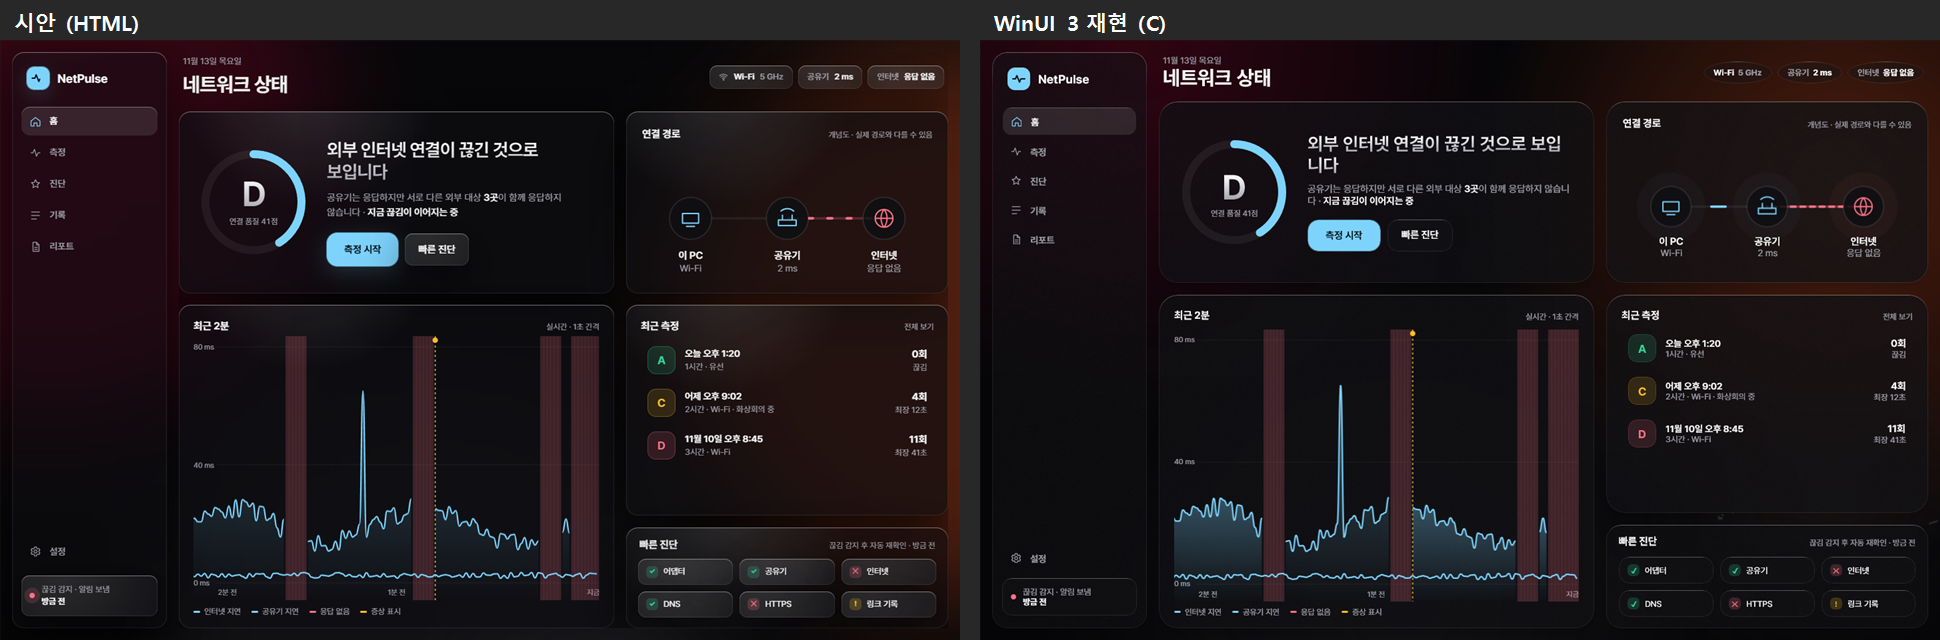
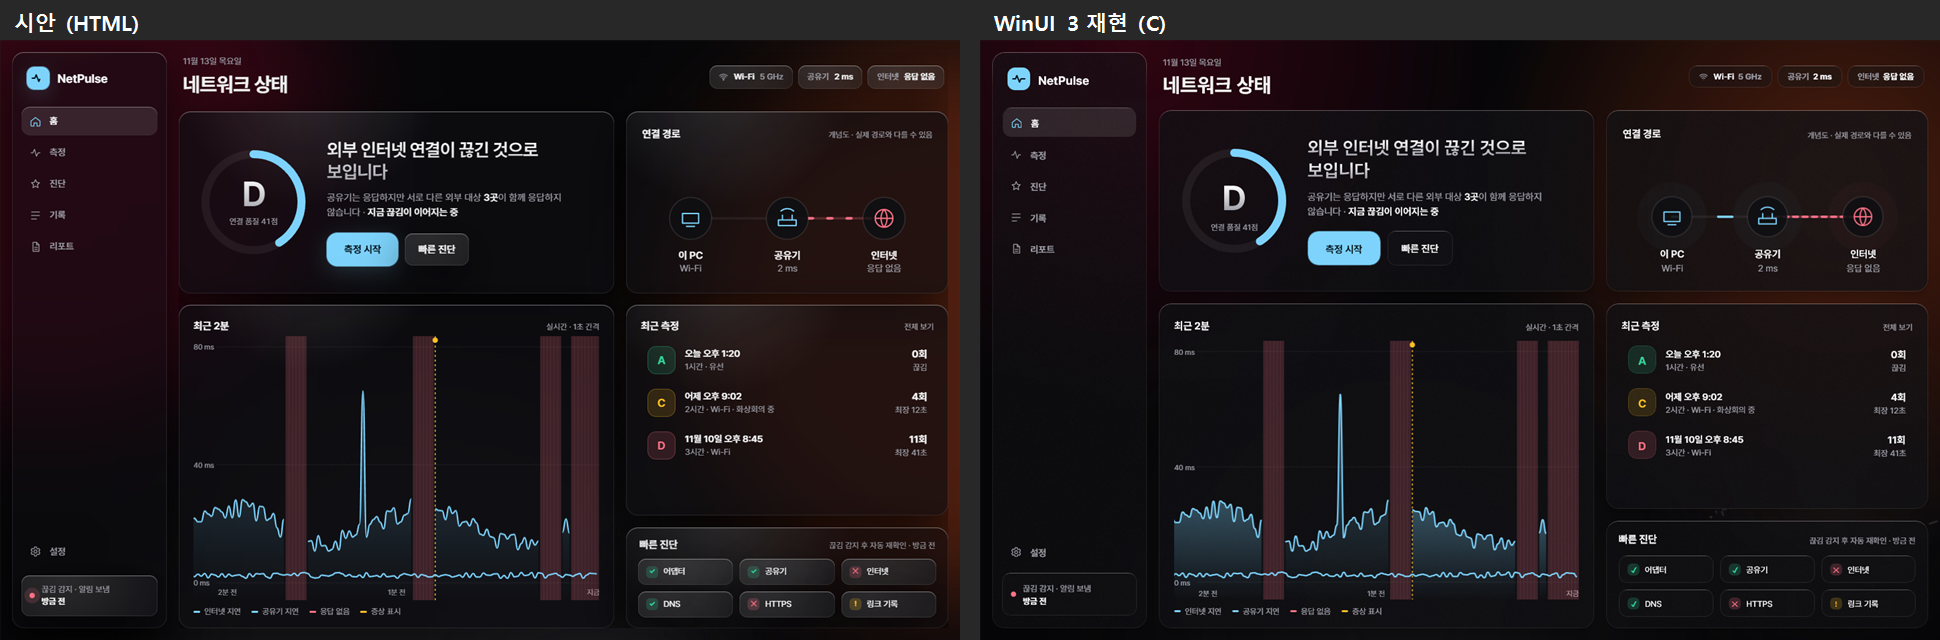
Rewrite the home reproduction report with measured results
The report now separates matched, approximated, and missing elements, records the bench run from 80a6941 with the measuring loop, the automation isolation check during the reveal, and the open items.

diff --git a/docs/loop/m0/home-repro.md b/docs/loop/m0/home-repro.md
@@ -2,35 +2,80 @@
 
 - 목적: 사용자가 C(WinUI 3)를 조건부로 고르면서, 고른 흑요석 시안을 C로 같은 품질로 낼 수 있는지 확인한다 (`DECISIONS.md` "D1 조건부 선호").
 - 소스: `spikes/c-winui/HomeWindow.cs` (`NetPulseSpikeC.exe --home`). 시안: `spikes/design/home-mockups.html`.
-- 캡처: `spikes/tools/capture-home.ps1`. C는 창의 클라이언트 영역 1440×900, 시안은 같은 크기의 Edge 헤드리스.
-- 비교 이미지: `home-repro/compare-*.png` (왼쪽 시안, 오른쪽 C), `home-repro/compare-transition.png` (테마 전환 네 시점)
+- 측정·캡처한 소스: 커밋 `80a6941`, 깨끗한 작업트리. 원본 `.loop/logs/m0-home/` (커밋 제외).
+- 비교 이미지: `home-repro/compare-*.png` (왼쪽 시안, 오른쪽 C, 둘 다 1440×900), `home-repro/compare-transition.png` (테마 전환 네 시점)
 
-## 재현한 것
+## 판정 요약
 
-| 요소 | 방법 | 결과 |
+| 항목 | 상태 |
+| --- | --- |
+| 정적 외관 (색·글꼴·배치·반경·줄바꿈) | 시안과 일치하도록 맞춤. 비교 이미지에서 카드 위치 차이 1~2 px |
+| 모션 (배경 빛, 오로라, 링, 경로 흐름, 타임라인, 등장, 원형 확산) | 구현함 |
+| 성능·자원 (측정 루프와 함께) | 측정함. 아래 표 |
+| 전환 중 입력·자동화 격리 | 확인함. 아래 표 |
+| 대비 계산, 재질의 수치 동등성, 키보드·화면 읽기, 다른 배율 | **확인하지 않음** |
+
+## 요소별
+
+상태 표기: **일치**(색 토큰과 정적 외관이 비교 이미지에서 같음), **근사**(같은 효과를 다른 수단으로 냄, 차이 있음), **미구현**.
+
+| 요소 | 방법 | 상태 |
 | --- | --- | --- |
-| 흑요석 색·글꼴 | 시안의 토큰 값을 그대로 옮김. Pretendard를 실행 파일 옆 `Fonts`에서 읽음 | 같음 |
-| 유리 3단계 | `AcrylicBrush` 틴트 70·52·36%, 위가 밝은 테두리 그라디언트로 1px 하이라이트 흉내 | 같음. 라이트에서는 `ThemeShadow` 그림자로 깊이가 시안보다 더 남 |
-| 배경 빛과 흐름 | 가장자리가 투명한 원형 그라디언트 + Storyboard 이동 | 같음 |
-| 연한 오로라 (켜고 끄기) | 길쭉한 빛 띠 셋, 투명도 0.6초 전환 | 동작함. **C 쪽이 시안보다 조금 옅다** → M2에서 세기 토큰으로 맞춤 |
-| 등급 링 | 원의 점선 간격을 줄이는 애니메이션 | 같음 |
-| 경로 맵의 흐르는 빛, 노드 파동 | 점선 오프셋 애니메이션, 크기·투명도 반복 | 같음 |
-| 타임라인 (매초 흘러감, 응답 없음 띠, 증상 표시) | 프레임마다 이동, 매초 다시 그림 | 같음 |
-| 끊김 상태 | 배경 빛 색, 경로 붉은 깜빡임, 등급 D, 진단 칩 | 같음 |
-| 카드 차례로 등장, 점수 올라가기 | Storyboard, 16 ms 타이머 | 동작함 |
-| 테마 원형 확산 | 이전 장면을 둔 채 새 장면을 위에 올리고 Composition 원형 클립을 키움 | 동작함. 누른 뒤 37 ms에 시작, 전체 646 ms. 전환 중에도 그래프가 움직임 |
-| 효과 줄이기 | 불투명 표면, 배경 빛·오로라 끔 | 동작함 (`.loop`의 `c-dark-reduced.png`) |
+| 흑요석 색·글꼴 | 시안의 토큰 값을 그대로 옮김. Pretendard를 실행 파일 옆 `Fonts`에서 읽음 | 일치 |
+| 형태·간격 | 유리 반경 18, 떠 있는 유리 12, 줄 높이 1.5 (제목 1.25) | 일치 |
+| 한국어 줄바꿈 | 글자 사이에 단어 결합자(U+2060)를 넣어 단어 단위로만 줄바꿈 | 일치 ("것으로 / 보입니다") |
+| 유리 3단계 | `AcrylicBrush` 틴트 70·52·36%, 위가 밝은 테두리로 1px 하이라이트 흉내 | **근사**. 시안의 블러 강도 22·18·12 px는 옮길 수 없다(속성 없음). 라이트에서는 `ThemeShadow` 그림자가 시안보다 진함 |
+| 배경 빛과 흐름 | 가장자리가 투명한 원형 그라디언트 + Storyboard 이동 | 근사 (CSS blur 대신 그라디언트) |
+| 연한 오로라 (켜고 끄기) | 길쭉한 빛 띠 셋, 투명도 0.6초 전환. 장면을 다시 만들지 않음 | **근사**. 시안보다 옅고 위치·퍼짐이 다름 → M2에서 토큰으로 맞춤 |
+| 등급 링 | 원의 점선 간격 애니메이션. 처음 한 번만 채우고, 테마·상태를 바꿔도 현재 값을 유지 | 일치 |
+| 경로 맵의 흐르는 빛, 노드 파동 | 점선 오프셋 애니메이션, 크기·투명도 반복 | 일치 |
+| 타임라인 | 프레임마다 이동, 매초 다시 그림. 장면마다 그래프를 따로 두고 같은 데이터로 그림 | 일치 |
+| 끊김 상태 | 배경 빛 색, 경로 붉은 깜빡임, 등급 D, 진단 칩, 제목 | 일치 |
+| 카드 등장, 점수 올라가기 | Storyboard, 16 ms 타이머 | 일치 |
+| 테마 원형 확산 | 이전 장면을 둔 채 새 장면을 위에 올리고 Composition 원형 클립을 키움. 이전 장면은 입력·접근성 트리에서 뺌 | 일치 (아래 측정) |
+| 포인터를 따라가는 빛, 측정 시작 버튼의 광택, 상태 점 파동 | — | **미구현** |
+| 측정 시작·빠른 진단·탐색 | 보기용 도형(`Border`). 실제 버튼은 비교 막대에만 있음 | **미구현** (시각 재현만) |
 
-## 만들면서 바뀐 것
+## 측정 (단일 실행, 앱 내부 계측)
 
-- 원형 확산을 처음에는 화면을 비트맵으로 찍어 겹치는 방식으로 했다. 배경 빛이 화면 밖까지 넘치게 그려져 비트맵이 화면보다 크게 찍혔고(2278×1933) 위치가 어긋났다. 비트맵 없이 살아 있는 두 장면을 겹치는 방식으로 바꿨고, 시작 지연도 약 220 ms에서 37 ms로 줄었다.
-- 한국어 제목이 단어 중간에서 줄바꿈됐다. 단어 단위 줄바꿈(`WrapWholeWords`)으로 고쳤다.
-- 타이머를 지역 변수로 두면 가비지 수집되어 멈출 수 있어 필드로 붙잡았다 (자동 종료가 안 되던 원인으로 추정).
+`spikes/tools/run-home-bench.ps1`. 연한 오로라를 켠 다크 화면에서, 1초 주기 루프백 Ping 측정 루프를 함께 돌렸다.
+
+| 구간 | 평균 fps | 95백분위 프레임 간격 | 최대 프레임 간격 |
+| --- | --- | --- | --- |
+| 정지 장면 10초 | 164.3 | 6.2 ms | 15.4 ms |
+| 오로라 켜고 끄기 6회 | 163.8 | 6.3 ms | 16.7 ms |
+| 원형 전환 20회 | 152.7 | 6.3 ms | **75.2 ms** |
+| 전환 뒤 정지 장면 10초 | 164.6 | 6.2 ms | 15.8 ms |
+
+| 자원 (10초 표본, 프로세스 1개) | 전환 전 | 전환 20회 뒤 |
+| --- | --- | --- |
+| CPU (전체 코어 기준) | 5.56% | 5.37% |
+| 작업 집합 최대 | 164.7 MB | 195.4 MB |
+| 전용 작업 집합 최대 | 56.9 MB | 83.6 MB |
+| 관리 메모리 (강제 수집 뒤) | 0.7 MB | 1.0 MB |
+| 남아 있는 장면 / 그래프 / 애니메이션 묶음 | 1 / 1 / 1 | 1 / 1 / 1 |
+
+- 측정 루프: 57회차, 중복·누락 0, 예정 대비 지연 최대 15.0 ms. 화면 전환이 측정을 흐트러뜨리지 않았다.
+- 전환 시간: 애니메이션 시작 호출까지 31~65 ms, 끝까지 640~691 ms (이 값은 앱이 기록한 호출 시각이고, 첫 표시 프레임의 지연은 아니다).
+- **전환 중 한 프레임이 최대 75 ms**: 새 장면 전체를 만드는 순간이다. 제품에서는 테마를 바꿀 때 장면을 통째로 다시 만들지 않는 방식으로 설계한다 (M2).
+- **메모리 증가**: 전환 20회 뒤 작업 집합이 약 31 MB 늘었다. 관리 메모리는 그대로이고, 이전 측정에서 10회 뒤 +22 MB, 20회 뒤 +27 MB(전용)로 회수에 비례하지 않아 네이티브 캐시로 추정한다. 누수가 아니라는 증명은 아니다. 장시간 시험(M2 이후)에서 확인한다.
+  - 원인 하나는 찾아 고쳤다: 떼어 낸 장면의 무한 반복 애니메이션이 계속 돌았다. 장면마다 애니메이션을 기록해 뗄 때 멈춘다.
+- 자원은 스파이크 합격선(CPU 15%, 메모리 400 MB) 안이다. 이 화면은 스파이크 시험 장면보다 CPU를 더 쓴다(약 2% → 5.5%). 움직이는 요소가 많기 때문이다.
+
+## 전환 중 자동화 격리
+
+| 시점 | `verdict` (control view / 전체) | `theme-light` 버튼 |
+| --- | --- | --- |
+| 전환 전 | 1 / 1 | 1 |
+| 전환 시작 150 ms 뒤 (두 장면이 함께 있음) | 1 / 1 | 1 |
+| 전환 뒤 | 1 / 1 | 1 |
+
+전환 뒤 키보드 초점은 새 장면의 같은 버튼에 있다. 화면 읽기 프로그램으로는 확인하지 않았다.
 
 ## 남은 차이와 확인하지 못한 것
 
-- 연한 오로라 세기 (위).
+- 연한 오로라의 세기·위치, 라이트 그림자 세기 (위).
 - 흑요석 시안의 미세한 결(점 무늬 질감)은 옮기지 않았다.
 - 타임라인 두 그래프가 같은 색인 것은 시안 그대로다. M2에서 보조 계열색을 정한다 (`DECISIONS.md` D2).
-- 이 화면의 프레임·자원은 재지 않았다. 스파이크 시험 장면(P2·P3)은 통과했지만 이 화면은 요소가 더 많다. M2·M5의 G5 프레임 기준으로 잰다.
-- 다른 배율, 고대비, 키보드 초점은 확인하지 않았다.
+- 대비 계산(오로라를 켠 가장 불리한 배경 포함), 고대비 실제 화면, 키보드 탐색, 화면 읽기, 다른 배율, 장시간 실행.
+- Windows 설정은 읽도록 했지만 이 PC의 설정을 바꿔 시험하지는 않았다 (사용자 시스템 설정).
